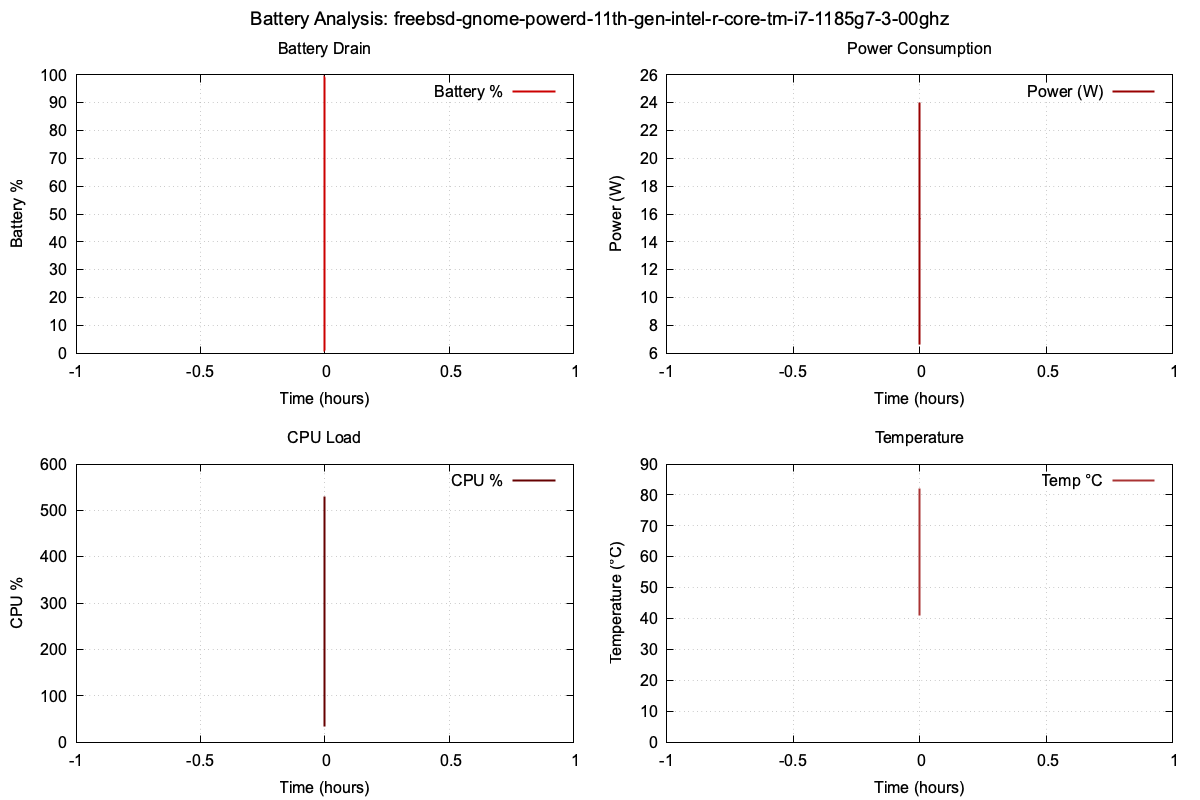
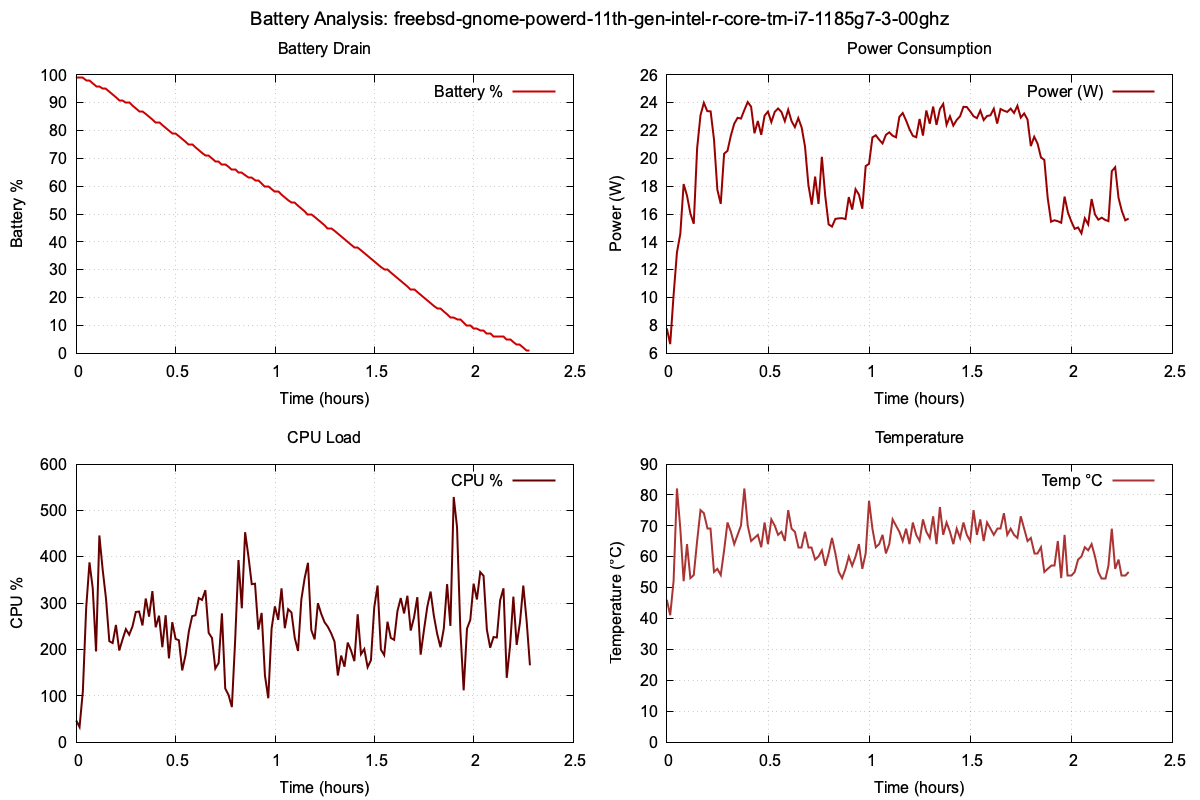
Update report data and add macOS date compatibility

diff --git a/docs/reports/freebsd-11th-gen-intel-r-core-tm-i7-1185g7-3-00ghz.html b/docs/reports/freebsd-11th-gen-intel-r-core-tm-i7-1185g7-3-00ghz.html
@@ -26,23 +26,23 @@
         <div class="stats">
             <div class="stat-card">
                 <h3>Test Duration</h3>
-                <div class="stat-value">0.0 hours</div>
-                <p>Total test runtime with 0 data samples</p>
+                <div class="stat-value">2.3 hours</div>
+                <p>Total test runtime with 138 data samples</p>
             </div>
             <div class="stat-card">
                 <h3>Battery Performance</h3>
-                <div class="stat-value">0.0% → 0.0%</div>
-                <p>Drained 0.0% at 0.0%/hour</p>
+                <div class="stat-value">99.0% → 1.0%</div>
+                <p>Drained 98.0% at 42.9%/hour</p>
             </div>
             <div class="stat-card">
                 <h3>Power Consumption</h3>
-                <div class="stat-value">0.0W average</div>
-                <p>Range: 0.0W - 0.0W</p>
+                <div class="stat-value">20.0W average</div>
+                <p>Range: 6.7W - 24.1W</p>
             </div>
             <div class="stat-card">
                 <h3>System Load</h3>
-                <div class="stat-value">0.0% CPU</div>
-                <p>Average temperature: 0.0°C</p>
+                <div class="stat-value">254.4% CPU</div>
+                <p>Average temperature: 64.1°C</p>
             </div>
         </div>
 
@@ -55,15 +55,15 @@
         <div class="insights">
             <h4>Key Observations:</h4>
             <ul>
-                <li><strong>Battery Efficiency:</strong> 0.0% battery consumed over 0.0 hours</li>
-                <li><strong>Power Profile:</strong> Average consumption of 0.0W with peaks up to 0.0W</li>
-                <li><strong>System Activity:</strong> CPU load averaged 0.0% throughout the test</li>
-                <li><strong>Thermal Management:</strong> System temperature averaged 0.0°C</li>
+                <li><strong>Battery Efficiency:</strong> 98.0% battery consumed over 2.3 hours</li>
+                <li><strong>Power Profile:</strong> Average consumption of 20.0W with peaks up to 24.1W</li>
+                <li><strong>System Activity:</strong> CPU load averaged 254.4% throughout the test</li>
+                <li><strong>Thermal Management:</strong> System temperature averaged 64.1°C</li>
             </ul>
         </div>
 
         <div class="footer">
-            <p>Report generated on Sun Sep 14 08:26:47 CEST 2025 by batlab-report</p>
+            <p>Report generated on Sun Sep 14 08:34:14 CEST 2025 by batlab-report</p>
             <p>Data source: 2025-09-13T21:17:14Z_gramr_FreeBSD_freebsd-11th-gen-intel-r-core-tm-i7-1185g7-3-00ghz.jsonl</p>
         </div>
     </div>

diff --git a/docs/index.html b/docs/index.html
@@ -67,7 +67,7 @@
         </div>
 
         <div class="footer">
-            <p>Reports generated by <strong>batlab</strong> • Last updated: Sun Sep 14 08:26:47 CEST 2025</p>
+            <p>Reports generated by <strong>batlab</strong> • Last updated: Sun Sep 14 08:34:14 CEST 2025</p>
         </div>
     </div>
 </body>
